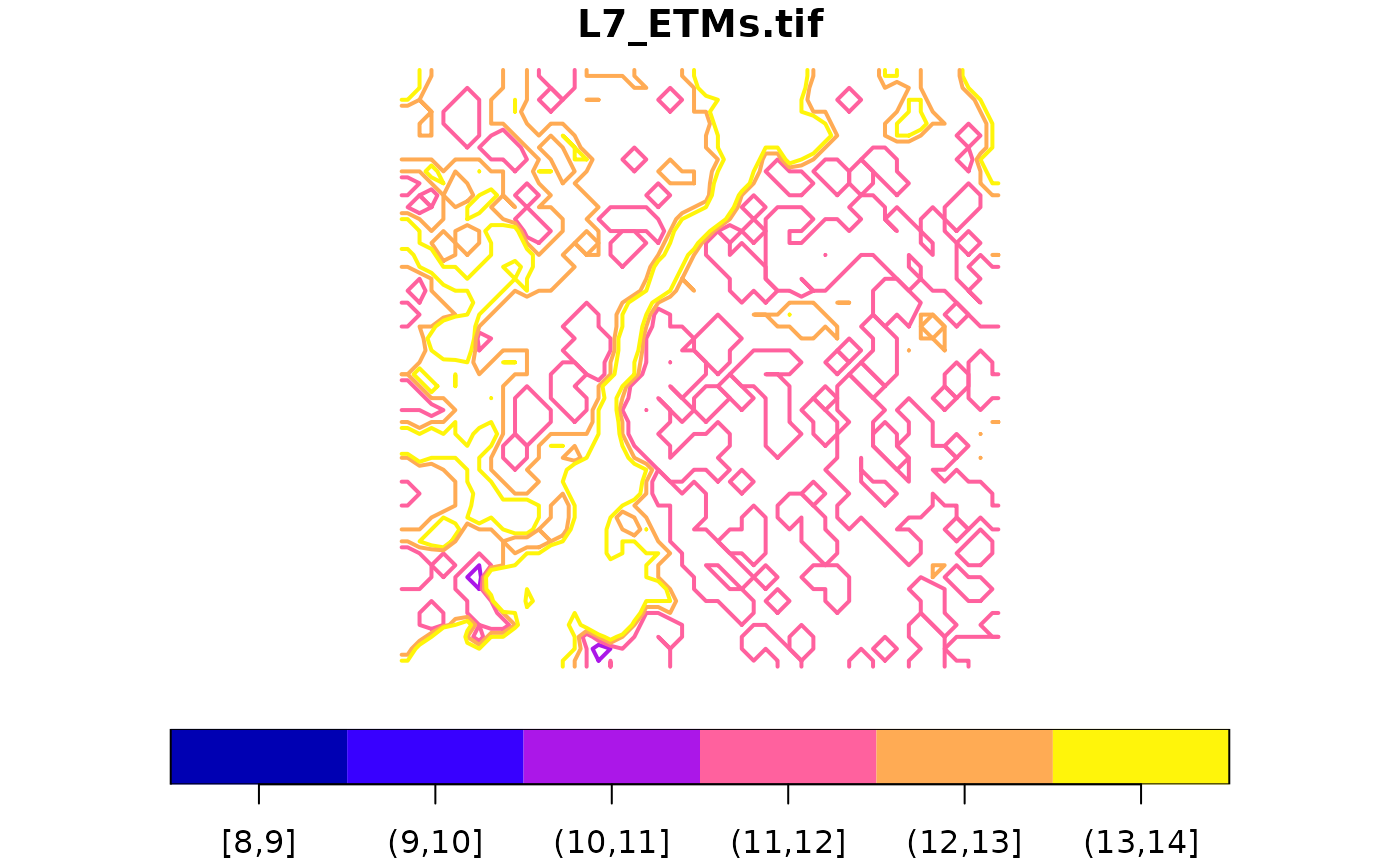
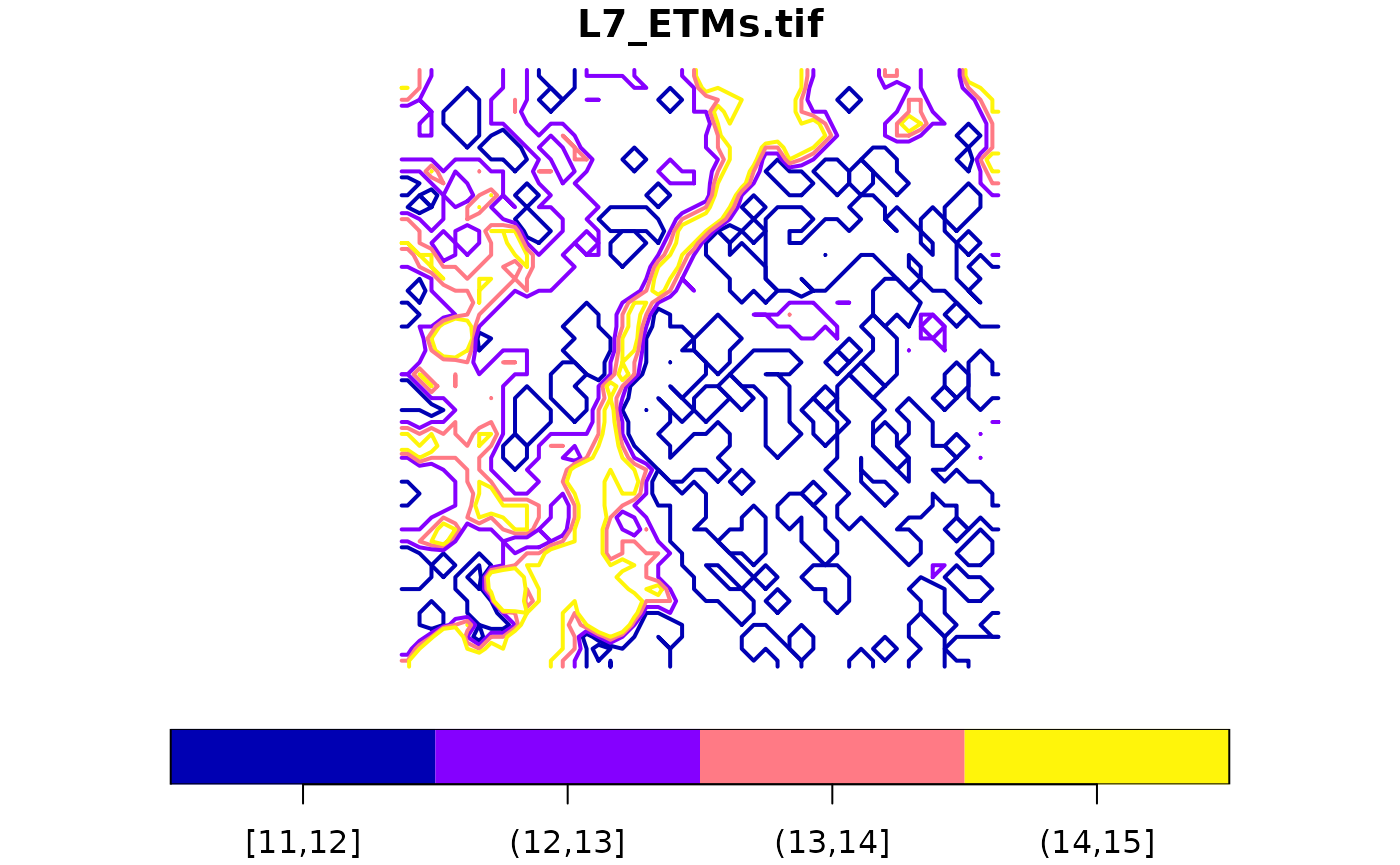
Deploy from Github Actions build 611959876 [ci skip]
Build URL: https://github.com/r-spatial/stars/actions/runs/611959876
Commit: cf1105282296f93a8419fcbcc24150ad777928a8

diff --git a/reference/read_stars.html b/reference/read_stars.html
@@ -160,7 +160,8 @@
   NA_value <span class='op'>=</span> <span class='cn'>NA_real_</span>,
   along <span class='op'>=</span> <span class='cn'>NA_integer_</span>,
   RasterIO <span class='op'>=</span> <span class='fu'><a href='https://rdrr.io/r/base/list.html'>list</a></span><span class='op'>(</span><span class='op'>)</span>,
-  proxy <span class='op'>=</span> <span class='op'>!</span><span class='fu'><a href='https://rdrr.io/r/base/length.html'>length</a></span><span class='op'>(</span><span class='va'>curvilinear</span><span class='op'>)</span> <span class='op'>&amp;&amp;</span> <span class='fu'>is_big</span><span class='op'>(</span><span class='va'>.x</span>, sub <span class='op'>=</span> <span class='va'>sub</span>, driver <span class='op'>=</span> <span class='va'>driver</span>, <span class='va'>...</span><span class='op'>)</span>,
+  proxy <span class='op'>=</span> <span class='op'>!</span><span class='fu'><a href='https://rdrr.io/r/base/length.html'>length</a></span><span class='op'>(</span><span class='va'>curvilinear</span><span class='op'>)</span> <span class='op'>&amp;&amp;</span> <span class='fu'>is_big</span><span class='op'>(</span><span class='va'>.x</span>, sub <span class='op'>=</span> <span class='va'>sub</span>, driver <span class='op'>=</span> <span class='va'>driver</span>, normalize_path
+    <span class='op'>=</span> <span class='va'>normalize_path</span>, <span class='va'>...</span><span class='op'>)</span>,
   curvilinear <span class='op'>=</span> <span class='fu'><a href='https://rdrr.io/r/base/character.html'>character</a></span><span class='op'>(</span><span class='fl'>0</span><span class='op'>)</span>,
   normalize_path <span class='op'>=</span> <span class='cn'>TRUE</span>,
   RAT <span class='op'>=</span> <span class='fu'><a href='https://rdrr.io/r/base/character.html'>character</a></span><span class='op'>(</span><span class='fl'>0</span><span class='op'>)</span>
@@ -366,13 +367,13 @@ has to be one of: "nearest_neighbour" (the default),
 <span class='op'>(</span><span class='va'>red</span> <span class='op'>&lt;-</span> <span class='fu'>read_stars</span><span class='op'>(</span><span class='va'>tmp</span><span class='op'>)</span><span class='op'>)</span>
 </div><div class='output co'>#&gt; stars object with 2 dimensions and 1 attribute
 #&gt; attribute(s):
-#&gt;  filee822d4a4496.tif 
-#&gt;  Min.   :  1.00      
-#&gt;  1st Qu.: 30.75      
-#&gt;  Median : 60.50      
-#&gt;  Mean   : 60.50      
-#&gt;  3rd Qu.: 90.25      
-#&gt;  Max.   :120.00      
+#&gt;  file537f403e4291.tif 
+#&gt;  Min.   :  1.00       
+#&gt;  1st Qu.: 30.75       
+#&gt;  Median : 60.50       
+#&gt;  Mean   : 60.50       
+#&gt;  3rd Qu.: 90.25       
+#&gt;  Max.   :120.00       
 #&gt; dimension(s):
 #&gt;   from to offset delta refsys point values x/y
 #&gt; x    1 10      0     1     NA    NA   NULL [x]
@@ -384,13 +385,13 @@ has to be one of: "nearest_neighbour" (the default),
    nBufXSize <span class='op'>=</span> <span class='fl'>2</span>, nBufYSize <span class='op'>=</span> <span class='fl'>2</span><span class='op'>)</span><span class='op'>)</span><span class='op'>)</span>
 </div><div class='output co'>#&gt; stars object with 2 dimensions and 1 attribute
 #&gt; attribute(s):
-#&gt;  filee822d4a4496.tif 
-#&gt;  Min.   :33.00       
-#&gt;  1st Qu.:36.75       
-#&gt;  Median :65.50       
-#&gt;  Mean   :65.50       
-#&gt;  3rd Qu.:94.25       
-#&gt;  Max.   :98.00       
+#&gt;  file537f403e4291.tif 
+#&gt;  Min.   :33.00        
+#&gt;  1st Qu.:36.75        
+#&gt;  Median :65.50        
+#&gt;  Mean   :65.50        
+#&gt;  3rd Qu.:94.25        
+#&gt;  Max.   :98.00        
 #&gt; dimension(s):
 #&gt;   from to offset delta refsys point values x/y
 #&gt; x    1  2      0     5     NA    NA   NULL [x]

diff --git a/articles/stars2.html b/articles/stars2.html
@@ -290,7 +290,7 @@
 <code class="sourceCode R"><span class="fu"><a href="https://rdrr.io/r/base/system.time.html">system.time</a></span><span class="op">(</span><span class="fu"><a href="../reference/plot.html">plot</a></span><span class="op">(</span><span class="va">p</span><span class="op">)</span><span class="op">)</span></code></pre></div>
 <p><img src="stars2_files/figure-html/unnamed-chunk-8-1.png" width="700"></p>
 <pre><code>##    user  system elapsed 
-##   2.472   0.176   2.252</code></pre>
+##   2.426   0.144   2.212</code></pre>
 <p>This takes only around 1 second, since only those pixels are read that can be seen on the plot. If we read the entire image in memory first, as we would do with</p>
 <div class="sourceCode" id="cb10"><pre class="downlit sourceCode r">
 <code class="sourceCode R"><span class="va">p</span> <span class="op">=</span> <span class="fu"><a href="../reference/read_stars.html">read_stars</a></span><span class="op">(</span><span class="va">s2</span>, proxy <span class="op">=</span> <span class="cn">FALSE</span><span class="op">)</span></code></pre></div>
@@ -381,7 +381,7 @@
 <span class="co">## [[1]]</span>
 <span class="co">## x[i = i, , drop = drop, crop = crop]</span>
 <span class="co">## attr(,".Environment")</span>
-<span class="co">## &lt;environment: 0x558f717e6510&gt;</span></code></pre></div>
+<span class="co">## &lt;environment: 0x557810601170&gt;</span></code></pre></div>
 <p>Doing this allows for optimizing the order in which operations are done. As an example, for <code>st_apply</code>, reading can be done sequentially over the dimensions over which the function is applied:</p>
 <ul>
 <li>If for example a function is applied to each band (such as: compute band quantiles), bands can be read sequentially, and discarded after the quantiles have been computed.</li>
@@ -435,11 +435,11 @@
 <span class="co">## st_apply(X = X, MARGIN = MARGIN, FUN = FUN, CLUSTER = CLUSTER, </span>
 <span class="co">##     PROGRESS = PROGRESS, FUTURE = FUTURE, rename = rename, .fname = .fname)</span>
 <span class="co">## attr(,".Environment")</span>
-<span class="co">## &lt;environment: 0x558f75923d60&gt;</span>
+<span class="co">## &lt;environment: 0x557813b1a6e0&gt;</span>
 <span class="fu"><a href="https://rdrr.io/r/base/system.time.html">system.time</a></span><span class="op">(</span><span class="fu"><a href="../reference/plot.html">plot</a></span><span class="op">(</span><span class="va">s2.ndvi</span><span class="op">)</span><span class="op">)</span> <span class="co"># read - compute ndvi - plot </span></code></pre></div>
 <p><img src="stars2_files/figure-html/unnamed-chunk-16-1.png" width="700"></p>
 <pre><code>##    user  system elapsed 
-##   1.731   0.144   1.491</code></pre>
+##   1.718   0.084   1.448</code></pre>
 </div>
 </div>
 </div>

diff --git a/articles/stars5.html b/articles/stars5.html
@@ -155,8 +155,8 @@
 <a href="#polygonizing" class="anchor"></a>Polygonizing</h2>
 <p>In case raster cells reflect point values and we want to get a vector representation of the whole field, we can draw contour lines and export the contour sets (only available when the GDAL version is at least 2.4.0):</p>
 <div class="sourceCode" id="cb3"><pre class="downlit sourceCode r">
-<code class="sourceCode R"><span class="va">l</span> <span class="op">=</span>  <span class="fu"><a href="../reference/st_contour.html">st_contour</a></span><span class="op">(</span><span class="va">x</span>,contour_lines<span class="op">=</span><span class="cn">TRUE</span>, breaks <span class="op">=</span> <span class="fl">8</span><span class="op">:</span><span class="fl">14</span><span class="op">)</span>
-<span class="fu"><a href="../reference/plot.html">plot</a></span><span class="op">(</span><span class="va">l</span>, key.pos <span class="op">=</span> <span class="fl">1</span>, pal <span class="op">=</span> <span class="fu">sf.colors</span><span class="op">(</span><span class="fl">6</span><span class="op">)</span>, lwd <span class="op">=</span> <span class="fl">2</span>, key.length <span class="op">=</span> <span class="fl">0.8</span><span class="op">)</span></code></pre></div>
+<code class="sourceCode R"><span class="va">l</span> <span class="op">=</span>  <span class="fu"><a href="../reference/st_contour.html">st_contour</a></span><span class="op">(</span><span class="va">x</span>,contour_lines<span class="op">=</span><span class="cn">TRUE</span>, breaks <span class="op">=</span> <span class="fl">11</span><span class="op">:</span><span class="fl">15</span><span class="op">)</span>
+<span class="fu"><a href="../reference/plot.html">plot</a></span><span class="op">(</span><span class="va">l</span><span class="op">[</span><span class="fl">1</span><span class="op">]</span>, key.pos <span class="op">=</span> <span class="fl">1</span>, pal <span class="op">=</span> <span class="va">sf.colors</span>, lwd <span class="op">=</span> <span class="fl">2</span>, key.length <span class="op">=</span> <span class="fl">0.8</span><span class="op">)</span></code></pre></div>
 <p><img src="stars5_files/figure-html/unnamed-chunk-3-1.png" width="700"></p>
 </div>
 <div id="exporting-to-points" class="section level2">

diff --git a/reference/write_stars.html b/reference/write_stars.html
@@ -160,7 +160,8 @@
   <span class='va'>...</span>,
   driver <span class='op'>=</span> <span class='fu'>detect.driver</span><span class='op'>(</span><span class='va'>dsn</span><span class='op'>)</span>,
   options <span class='op'>=</span> <span class='fu'><a href='https://rdrr.io/r/base/character.html'>character</a></span><span class='op'>(</span><span class='fl'>0</span><span class='op'>)</span>,
-  type <span class='op'>=</span> <span class='st'>"Float32"</span>,
+  type <span class='op'>=</span> <span class='kw'>if</span> <span class='op'>(</span><span class='fu'><a href='https://rdrr.io/r/base/factor.html'>is.factor</a></span><span class='op'>(</span><span class='va'>obj</span><span class='op'>[[</span><span class='fl'>1</span><span class='op'>]</span><span class='op'>]</span><span class='op'>)</span> <span class='op'>&amp;&amp;</span> <span class='fu'><a href='https://rdrr.io/r/base/length.html'>length</a></span><span class='op'>(</span><span class='fu'><a href='https://rdrr.io/r/base/levels.html'>levels</a></span><span class='op'>(</span><span class='va'>obj</span><span class='op'>[[</span><span class='fl'>1</span><span class='op'>]</span><span class='op'>]</span><span class='op'>)</span><span class='op'>)</span> <span class='op'>&lt;</span> <span class='fl'>256</span><span class='op'>)</span> <span class='st'>"Byte"</span> <span class='kw'>else</span>
+    <span class='st'>"Float32"</span>,
   NA_value <span class='op'>=</span> <span class='cn'>NA_real_</span>,
   update <span class='op'>=</span> <span class='cn'>FALSE</span>,
   normalize_path <span class='op'>=</span> <span class='cn'>TRUE</span>

diff --git a/news/index.html b/news/index.html
@@ -149,6 +149,9 @@
 <a href="#version-05-2" class="anchor"></a>version 0.5-2<small> Unreleased </small>
 </h1>
 <ul>
+<li><p>read and write categorical rasters, as factor attribute; <a href='https://github.com/r-spatial/stars/issues/392'>#392</a></p></li>
+<li><p>handle <code>normalize_path</code> for choosing to <code>proxy</code>; <a href='https://github.com/r-spatial/stars/issues/391'>#391</a></p></li>
+<li><p>ignore units if there are different units accross bands of a subdataset</p></li>
 <li><p>speed up <code>st_rgb</code> using faster <code>st_apply</code> approach; <a href='https://github.com/r-spatial/stars/issues/315'>#315</a>, <a href='https://github.com/r-spatial/stars/issues/390'>#390</a></p></li>
 <li><p>improve handling of crs in Spatial objects (avoid loss of wkt comments)</p></li>
 <li><p>correctly write band subsets for smaller proxy objects; <a href='https://github.com/r-spatial/stars/issues/291'>#291</a></p></li>

diff --git a/articles/stars1.html b/articles/stars1.html
@@ -572,9 +572,9 @@
 <span class="co">##  Min.   : 0.00  </span>
 <span class="co">##  1st Qu.: 8.00  </span>
 <span class="co">##  Median :10.00  </span>
-<span class="co">##  Mean   :10.03  </span>
+<span class="co">##  Mean   :10.01  </span>
 <span class="co">##  3rd Qu.:12.00  </span>
-<span class="co">##  Max.   :29.00  </span>
+<span class="co">##  Max.   :27.00  </span>
 <span class="co">## dimension(s):</span>
 <span class="co">##             from  to                      offset                       delta</span>
 <span class="co">## origin         1 100                          NA                          NA</span>
